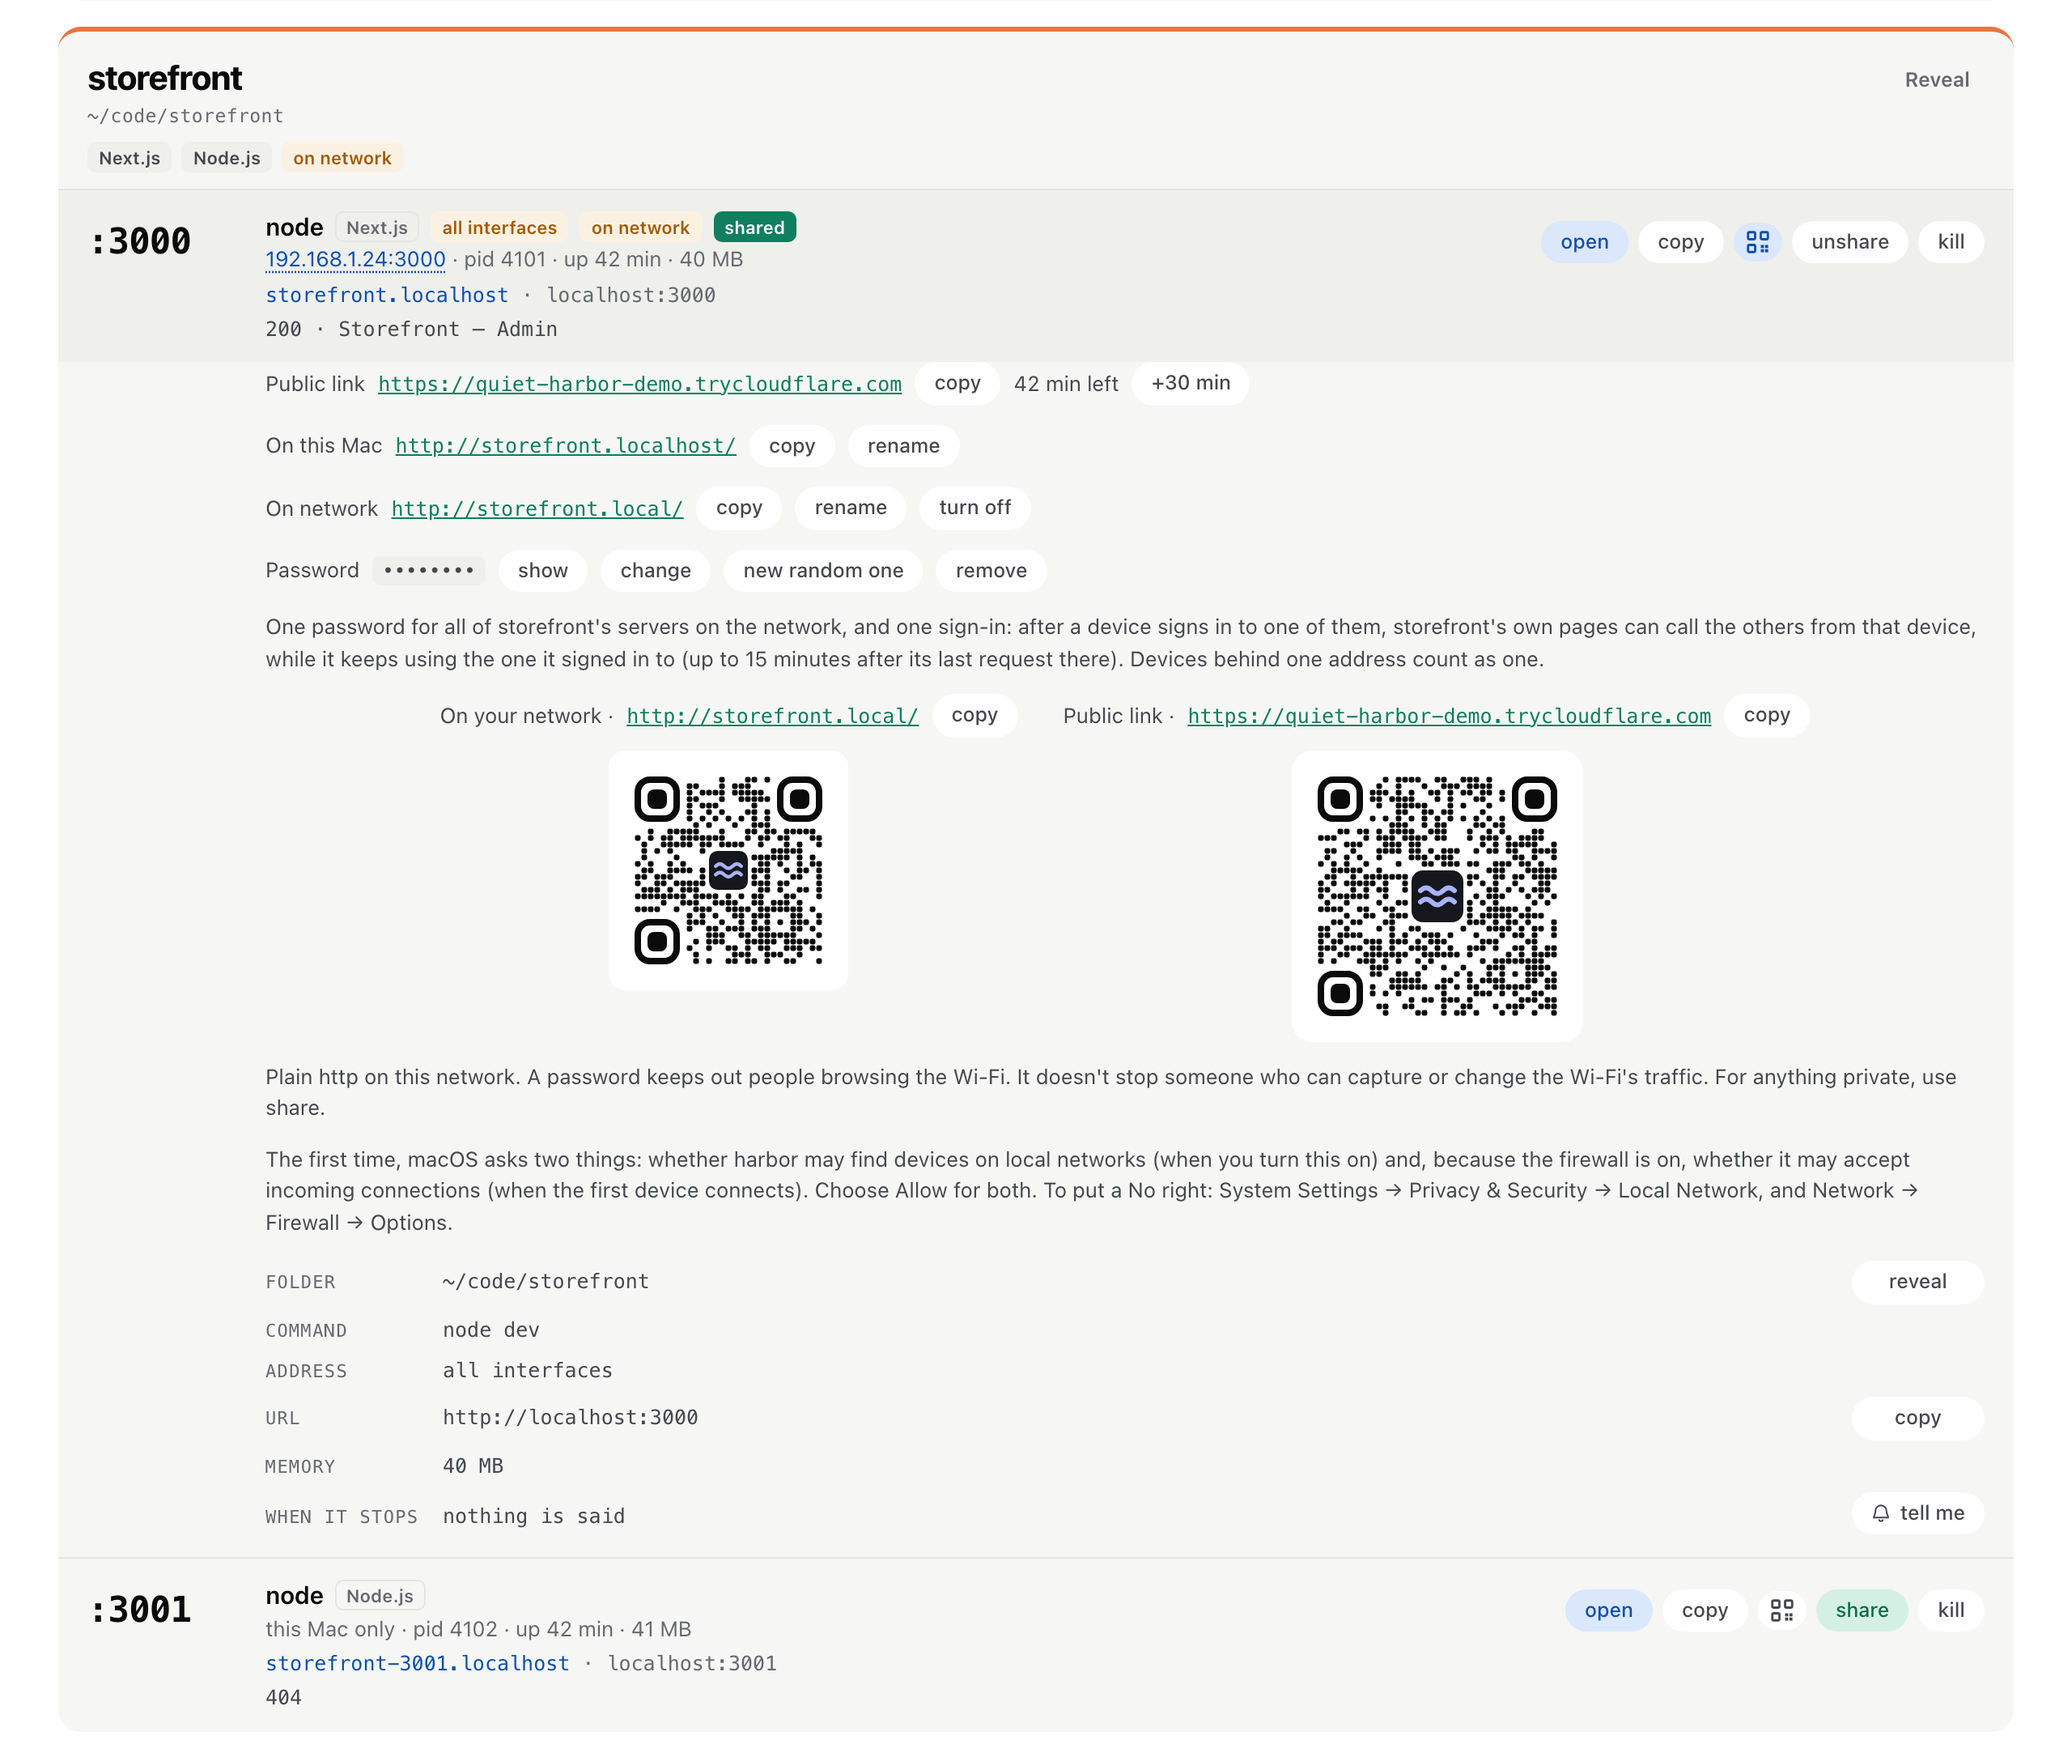
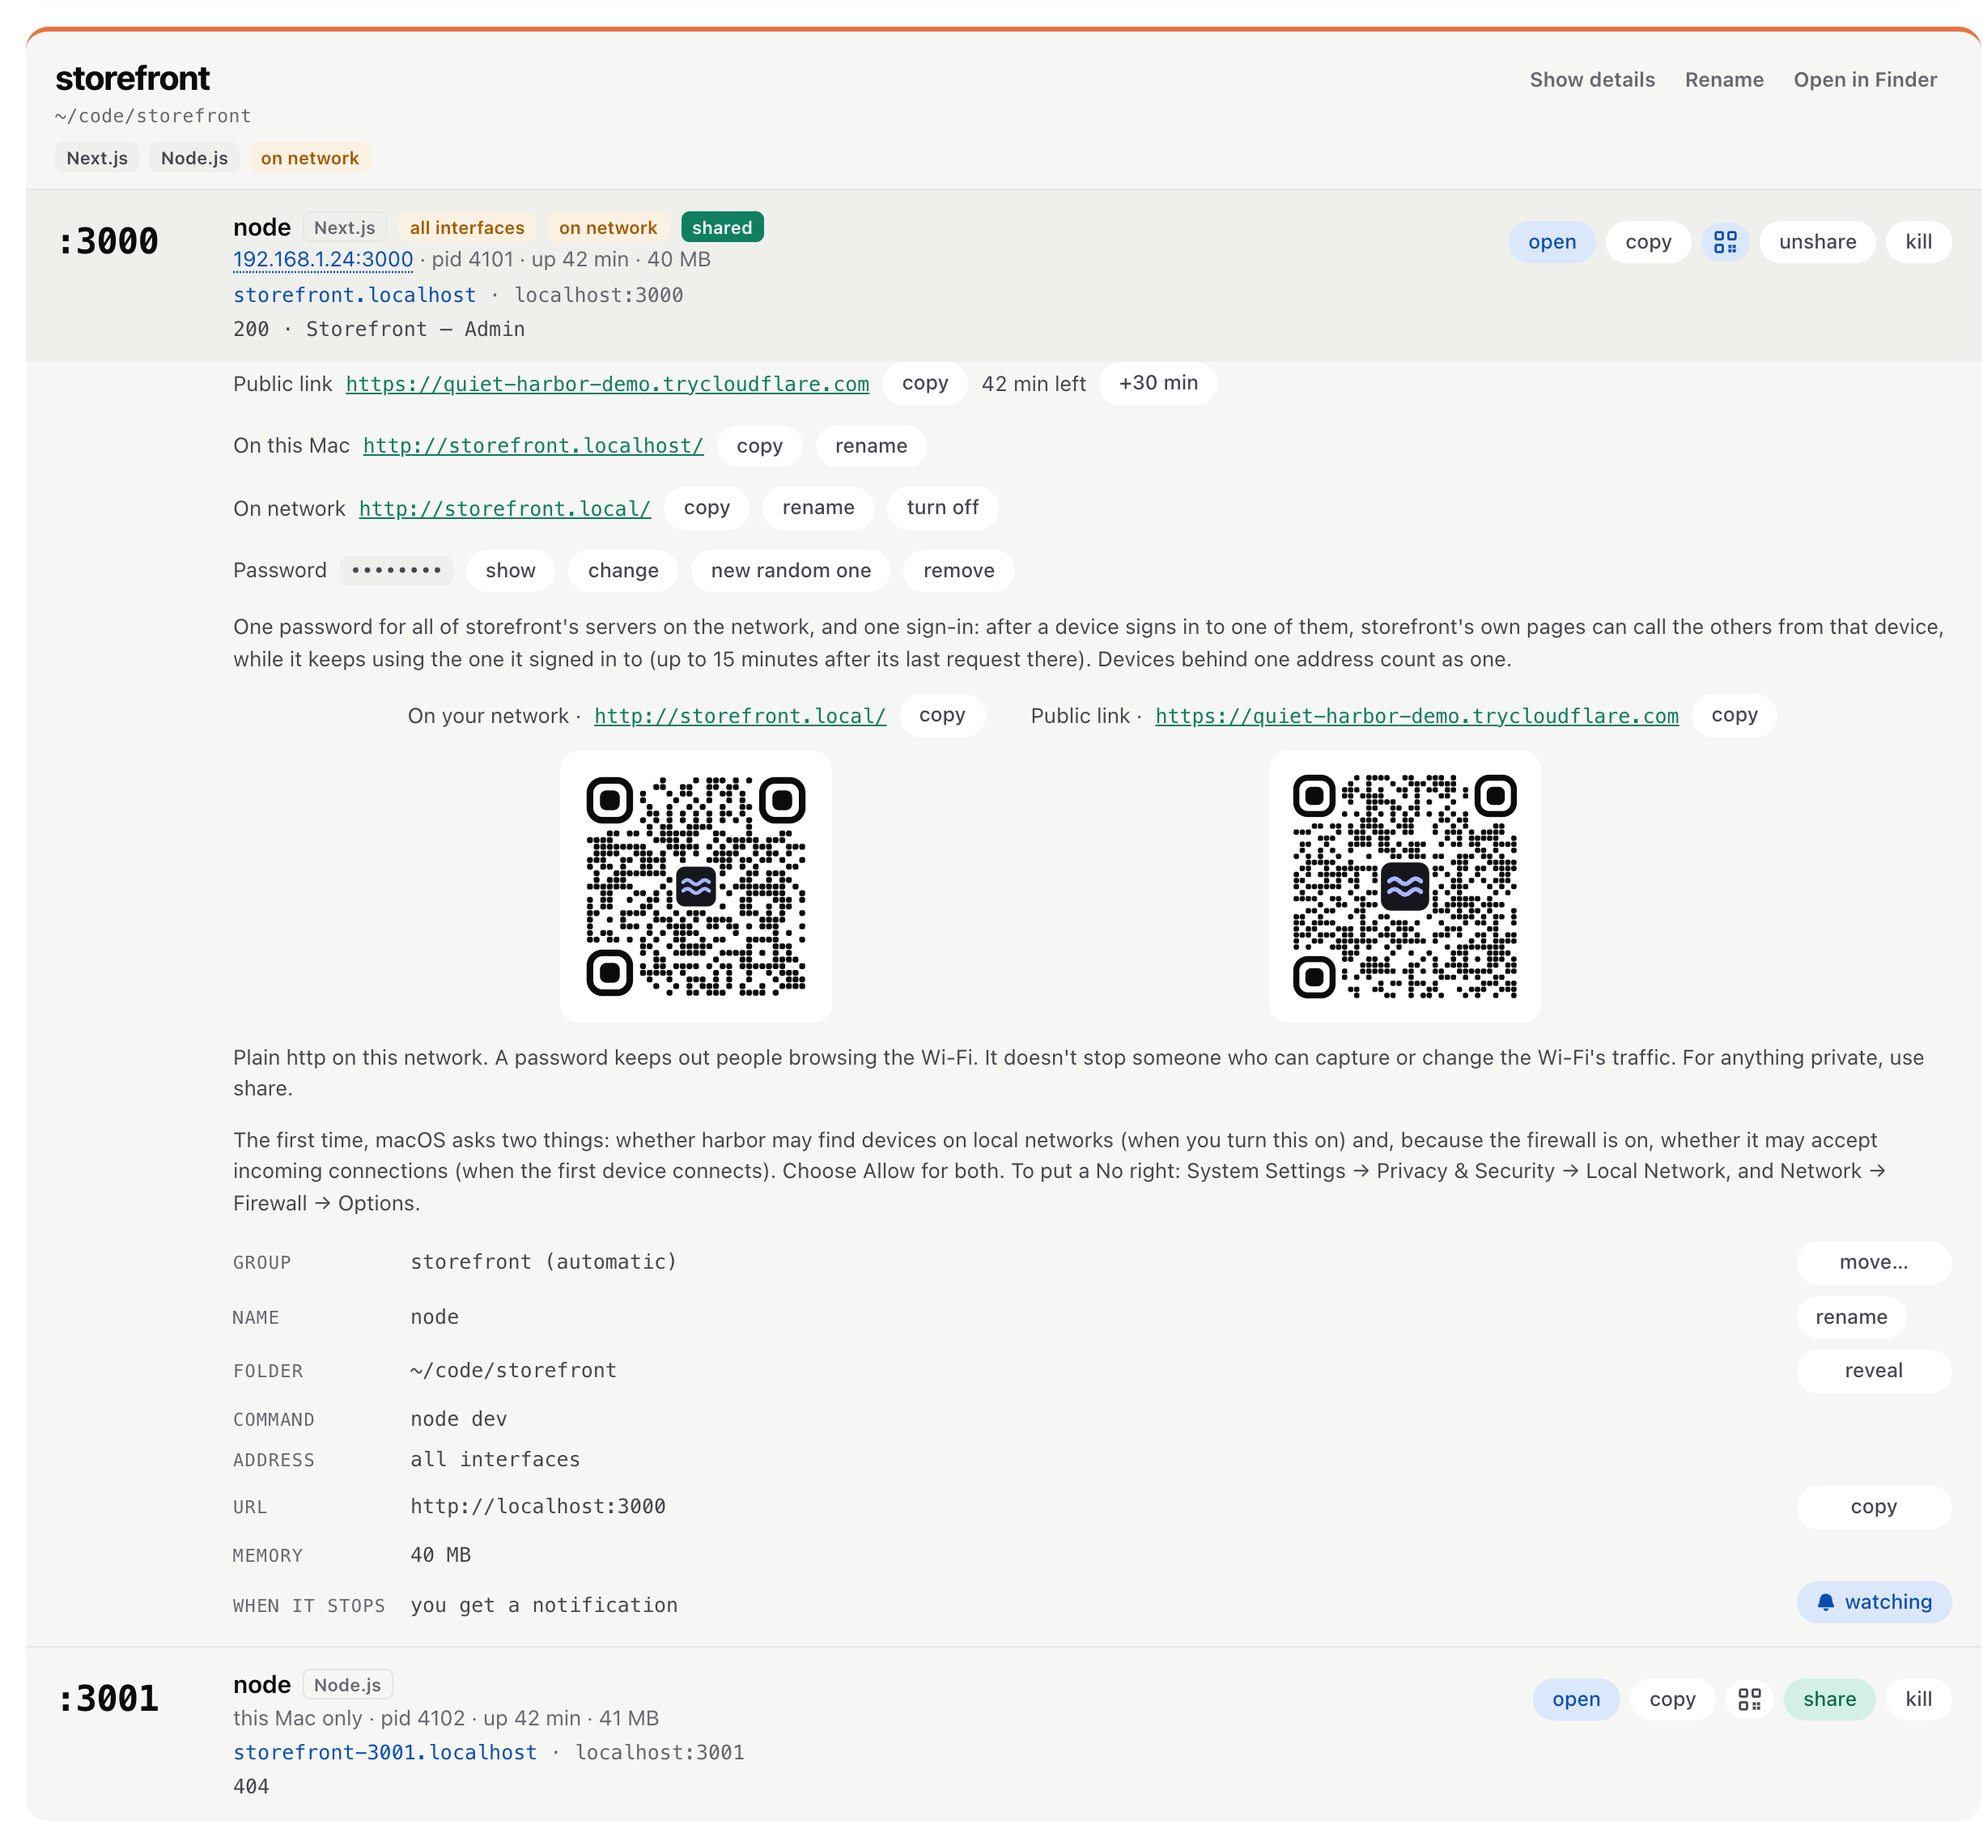
1.8.2: opening the menu doesn't scan again; one per row reads well; README pictures are current
Scans. Opening the menu or the page used to scan at once (and again a second later), and the
page's every request scanned if the last scan was over 2 seconds old, so with a one hour refresh
setting every look was a scan. Now what is shown is left as it is until it is a refresh interval
old: the timed scan comes one interval after the last scan, not after the menu opened. The
Refresh button, the commands, and anything harbor itself changes (a kill, a share, a start) still
scan at once; manual mode scans on open only when there is nothing to show yet.

One per row. A card is at most 840 px wide in that layout (the labels stay near their buttons)
and full width on a narrow window.

README. The pictures (ports, network, stopped, menu; light and dark) are made again from this
build with made-up servers: the Group and Name lines, Show details / Rename / Open in Finder, the
two QR codes at one size (168 px), the Stopped card as it is now.

Run on the installed app with a one hour interval: scannedAgo grows between page loads, a server
started in between is not listed until a rescan, and harbor check sees it at once. 196 tests.

diff --git a/Sources/Harbor/Model/Monitor.swift b/Sources/Harbor/Model/Monitor.swift
@@ -340,18 +340,37 @@ final class Monitor {
             enterFastMode()
         } else if !active && wasActive {
             leaveFastMode()
-        } else if isVisible {
+        } else if isVisible, scanIsDue {
             requestFullScan()
         }
+    }
+
+    /// How old a scan may be for the page to be answered from it: the refresh interval (a day when manual).
+    var stateMaxAge: Double { refreshInterval > 0 ? max(2, refreshInterval) : 86_400 }
+
+    /// Is what is shown older than the refresh interval (or is there nothing yet)? Opening the menu
+    /// or the page does not scan again before that: a scan then is for the interval, the refresh
+    /// button, or something that changed. Manual (0) scans only when there is nothing to show.
+    private var scanIsDue: Bool {
+        guard let last = lastFullScan else { return true }
+        guard refreshInterval > 0 else { return false }
+        return Date().timeIntervalSince(last) >= refreshInterval
+    }
+
+    /// When the next timed scan falls: one interval after the last scan, not after the menu opened.
+    private var nextScanDate: Date {
+        max(Date().addingTimeInterval(1), (lastFullScan ?? Date()).addingTimeInterval(refreshInterval))
     }
 
     private func enterFastMode() {
         DebugCLI.log("fast mode on (\(visible))")
         checkDoor()
-        requestFullScan()
-        // A second sample soon after opening so CPU % shows up quickly.
-        DispatchQueue.main.asyncAfter(deadline: .now() + 1.2) { [weak self] in
-            MainActor.assumeIsolated { self?.requestFullScan() }
+        if scanIsDue {
+            requestFullScan()
+            // A second sample soon after opening so CPU % shows up quickly.
+            DispatchQueue.main.asyncAfter(deadline: .now() + 1.2) { [weak self] in
+                MainActor.assumeIsolated { self?.requestFullScan() }
+            }
         }
         fastTimer?.invalidate()
         fastTimer = nil
@@ -371,7 +390,7 @@ final class Monitor {
             RunLoop.main.add(t, forMode: .common)
             fastTimer = t
             if refreshInterval > 60 {
-                let scans = Timer(timeInterval: refreshInterval, repeats: true) { [weak self] _ in
+                let scans = Timer(fire: nextScanDate, interval: refreshInterval, repeats: true) { [weak self] _ in
                     MainActor.assumeIsolated { self?.requestFullScan() }
                 }
                 scans.tolerance = min(60, refreshInterval / 10)
@@ -380,7 +399,7 @@ final class Monitor {
             }
             return
         }
-        let t = Timer(timeInterval: refreshInterval, repeats: true) { [weak self] _ in
+        let t = Timer(fire: nextScanDate, interval: refreshInterval, repeats: true) { [weak self] _ in
             MainActor.assumeIsolated {
                 guard let self else { return }
                 self.recheckSurfaces()

diff --git a/Sources/Harbor/Web/Page.swift b/Sources/Harbor/Web/Page.swift
@@ -302,8 +302,9 @@ function qrSvg(rows, label) {
 
   /* ---------- port cards ---------- */
   .cards { display: grid; grid-template-columns: repeat(auto-fill, minmax(min(100%, 600px), 1fr)); gap: 16px; align-items: start; }
-  /* "1 card" in the Cards control: one column, however wide the window. */
-  #cards.one { grid-template-columns: minmax(0, 1fr); }
+  /* "One per row": one column, as wide as a card reads well (labels stay near their buttons), not the whole window. */
+  #cards.one { grid-template-columns: minmax(0, 840px); justify-content: start; }
+  @media (max-width: 900px) { #cards.one { grid-template-columns: minmax(0, 1fr); } }
   .card { background: var(--panel); border-radius: 14px; overflow: hidden; border-top: 3px solid var(--pc, var(--c-ports)); }
   .card-head { display: flex; align-items: flex-start; justify-content: space-between; gap: 12px; padding: 16px 18px 10px; }
   .card-title { min-width: 0; }
@@ -1804,7 +1805,8 @@ $('login-item').addEventListener('change', async (e) => {
   poll();
 });
 window.addEventListener('resize', () => { if (state) renderHero(state.ports.filter((p) => !p.hidden)); });
-$('refresh').addEventListener('click', () => poll());
+// Refresh means scan now: the page is otherwise answered from the last scan until the interval is up.
+$('refresh').addEventListener('click', async () => { await act('rescan', 0); poll(); });
 // Update now: asked first, and only ever from this click.
 $('update-now').addEventListener('click', async () => {
   const u = state && state.update;

diff --git a/Sources/Harbor/Web/WebAPI.swift b/Sources/Harbor/Web/WebAPI.swift
@@ -32,7 +32,9 @@ enum WebAPI {
         let m = Monitor.shared
         m.webTouch()
         Updates.shared.check()  // at most once a day
-        m.fresh(maxAge: 2.0) {
+        // The refresh interval, not "a moment ago": opening the page, or a poll, doesn't scan again before it.
+        // The page's Refresh button and the command ask for a scan themselves (op "rescan").
+        m.fresh(maxAge: m.stateMaxAge) {
             m.look(at: see)
             let object = build()
             done((try? JSONSerialization.data(withJSONObject: object)) ?? Data("{}".utf8))
@@ -268,6 +270,9 @@ enum WebAPI {
             return done(400, ["error": "Send {op, pid}."])
         }
         switch op {
+        case "rescan":
+            Monitor.shared.requestFullScan()
+            return done(200, ["result": "ok"])
         case "card-rename":
             // A card, not a process: named by its key, which the page was given.
             if let problem = Monitor.shared.renameCard(key: (obj["key"] as? String) ?? "", to: (obj["title"] as? String) ?? "") { return done(400, ["error": problem]) }

diff --git a/Sources/Harbor/CLIApp.swift b/Sources/Harbor/CLIApp.swift
@@ -260,7 +260,12 @@ enum CLIApp {
             return json
         }
 
-        func state() throws -> [String: Any] { try send("/api/state", body: nil) }
+        /// The app's state after a scan of its own: a command wants what is listening now, not what the
+        /// last scan (which may be an interval old) found.
+        func state() throws -> [String: Any] {
+            _ = try? send("/api/action", body: ["op": "rescan", "pid": 0])
+            return try send("/api/state", body: nil)
+        }
 
         @discardableResult
         func act(_ body: [String: Any]) throws -> [String: Any] { try send("/api/action", body: body) }

diff --git a/Sources/Harbor/DebugCLI.swift b/Sources/Harbor/DebugCLI.swift
@@ -444,6 +444,7 @@ enum DebugCLI {
     static var lanSuffix: String {
         guard isDebugRun else { return "" }
         let given = value(after: "--lan-suffix") ?? "-debug"
+        if given.isEmpty { return "" }      // for snapshots of made-up servers: the names as a reader's page shows them
         return Names.isLabel("x" + given) ? given : "-debug"
     }
 
